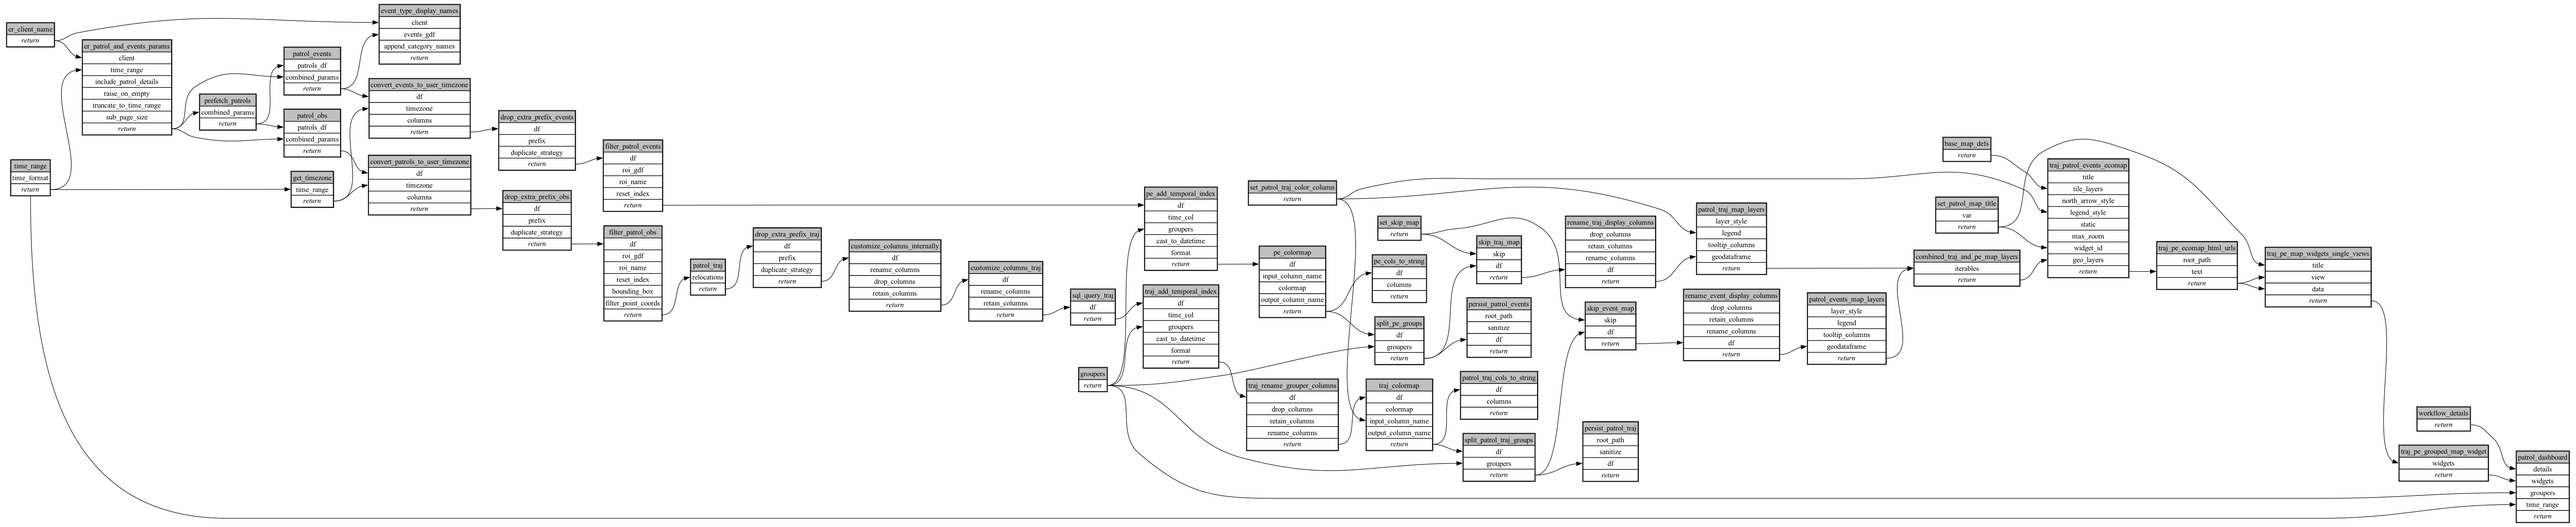
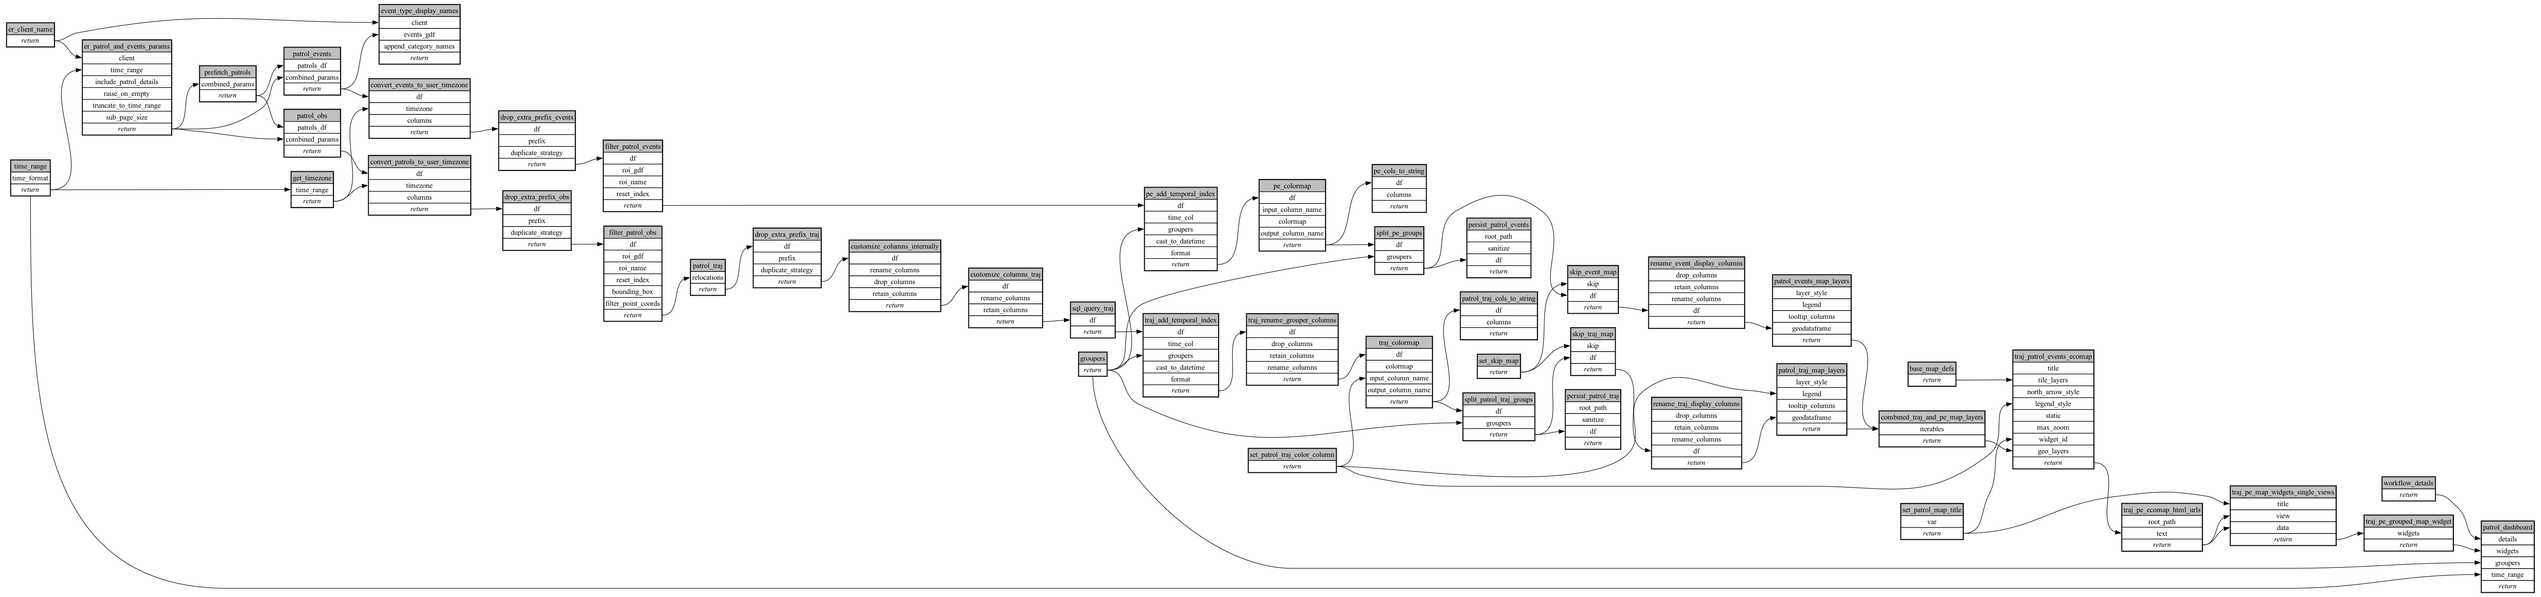
fix skip map

diff --git a/ecoscope-workflows-download-patrols-workflow/ecoscope_workflows_download_patrols_workflow/formdata.py b/ecoscope-workflows-download-patrols-workflow/ecoscope_workflows_download_patrols_workflow/formdata.py
@@ -5,7 +5,7 @@ from __future__ import annotations
 
 from datetime import datetime
 from enum import Enum
-from typing import Any, List, Literal, Optional, Union
+from typing import List, Literal, Optional, Union
 
 from pydantic import BaseModel, ConfigDict, Field, RootModel, confloat, constr
 
@@ -129,7 +129,11 @@ class SetSkipMap(BaseModel):
     model_config = ConfigDict(
         extra="forbid",
     )
-    var: bool = Field(..., title="")
+    var: bool = Field(
+        ...,
+        description="Skip generating maps for patrol trajectories and events. Recommended for large datasets to improve performance.",
+        title="",
+    )
 
 
 class Url(str, Enum):
@@ -298,17 +302,9 @@ class BaseMapDefs(BaseModel):
     )
 
 
-class SkipMapGeneration(BaseModel):
-    skip: Optional[Any] = Field(
-        None,
-        description="Skip generating maps for patrol trajectories and events. Recommended for large datasets to improve performance.",
-    )
-
-
 class GenerateMaps(BaseModel):
     set_skip_map: Optional[SetSkipMap] = Field(None, title="Skip Map Generation")
     base_map_defs: Optional[BaseMapDefs] = Field(None, title=" ")
-    skip_map_generation: Optional[SkipMapGeneration] = None
 
 
 class EarthRangerConnection(BaseModel):
@@ -341,6 +337,10 @@ class TrajectorySegmentFilter(BaseModel):
     max_speed_kmhr: Optional[confloat(gt=0.001)] = Field(
         500, title="Maximum Segment Speed (Kilometers per Hour)"
     )
+
+
+class SpatialGrouper(RootModel[str]):
+    root: str = Field(..., title="Spatial Regions")
 
 
 class TemporalGrouper(RootModel[str]):
@@ -405,10 +405,12 @@ class Groupers(BaseModel):
     model_config = ConfigDict(
         extra="forbid",
     )
-    groupers: Optional[List[Union[ValueGrouper, TemporalGrouper]]] = Field(
-        None,
-        description="            Specify how the data should be grouped to create the views for your dashboard.\n            This field is optional; if left blank, all the data will appear in a single view.\n            ",
-        title=" ",
+    groupers: Optional[List[Union[ValueGrouper, TemporalGrouper, SpatialGrouper]]] = (
+        Field(
+            None,
+            description="            Specify how the data should be grouped to create the views for your dashboard.\n            This field is optional; if left blank, all the data will appear in a single view.\n            ",
+            title=" ",
+        )
     )
 
 

diff --git a/ecoscope-workflows-download-patrols-workflow/ecoscope_workflows_download_patrols_workflow/dags/run_async_mock_io.py b/ecoscope-workflows-download-patrols-workflow/ecoscope_workflows_download_patrols_workflow/dags/run_async_mock_io.py
@@ -61,6 +61,9 @@ from ecoscope_workflows_core.tasks.results import gather_dashboard as gather_das
 from ecoscope_workflows_core.tasks.results import (
     merge_widget_views as merge_widget_views,
 )
+from ecoscope_workflows_core.tasks.skip import (
+    all_keyed_iterables_are_skips as all_keyed_iterables_are_skips,
+)
 from ecoscope_workflows_core.tasks.skip import never as never
 from ecoscope_workflows_core.tasks.transformation import (
     add_temporal_index as add_temporal_index,
@@ -149,8 +152,8 @@ def main(params: Params):
         "persist_patrol_traj": ["split_patrol_traj_groups"],
         "persist_patrol_events": ["split_pe_groups"],
         "set_skip_map": [],
-        "skip_traj_map": ["set_skip_map", "split_pe_groups"],
-        "skip_event_map": ["set_skip_map", "split_patrol_traj_groups"],
+        "skip_traj_map": ["set_skip_map", "split_patrol_traj_groups"],
+        "skip_event_map": ["set_skip_map", "split_pe_groups"],
         "set_patrol_map_title": [],
         "base_map_defs": [],
         "rename_traj_display_columns": ["skip_traj_map"],
@@ -943,7 +946,7 @@ def main(params: Params):
             method="mapvalues",
             kwargs={
                 "argnames": ["df"],
-                "argvalues": DependsOn("split_pe_groups"),
+                "argvalues": DependsOn("split_patrol_traj_groups"),
             },
         ),
         "skip_event_map": Node(
@@ -966,7 +969,7 @@ def main(params: Params):
             method="mapvalues",
             kwargs={
                 "argnames": ["df"],
-                "argvalues": DependsOn("split_patrol_traj_groups"),
+                "argvalues": DependsOn("split_pe_groups"),
             },
         ),
         "set_patrol_map_title": Node(
@@ -1139,7 +1142,7 @@ def main(params: Params):
             .with_tracing()
             .skipif(
                 conditions=[
-                    any_dependency_skipped,
+                    all_keyed_iterables_are_skips,
                 ],
                 unpack_depth=1,
             )

diff --git a/ecoscope-workflows-download-patrols-workflow/ecoscope_workflows_download_patrols_workflow/dags/run_async.py b/ecoscope-workflows-download-patrols-workflow/ecoscope_workflows_download_patrols_workflow/dags/run_async.py
@@ -25,6 +25,9 @@ from ecoscope_workflows_core.tasks.results import (
     merge_widget_views as merge_widget_views,
 )
 from ecoscope_workflows_core.tasks.skip import (
+    all_keyed_iterables_are_skips as all_keyed_iterables_are_skips,
+)
+from ecoscope_workflows_core.tasks.skip import (
     any_dependency_skipped as any_dependency_skipped,
 )
 from ecoscope_workflows_core.tasks.skip import any_is_empty_df as any_is_empty_df
@@ -129,8 +132,8 @@ def main(params: Params):
         "persist_patrol_traj": ["split_patrol_traj_groups"],
         "persist_patrol_events": ["split_pe_groups"],
         "set_skip_map": [],
-        "skip_traj_map": ["set_skip_map", "split_pe_groups"],
-        "skip_event_map": ["set_skip_map", "split_patrol_traj_groups"],
+        "skip_traj_map": ["set_skip_map", "split_patrol_traj_groups"],
+        "skip_event_map": ["set_skip_map", "split_pe_groups"],
         "set_patrol_map_title": [],
         "base_map_defs": [],
         "rename_traj_display_columns": ["skip_traj_map"],
@@ -923,7 +926,7 @@ def main(params: Params):
             method="mapvalues",
             kwargs={
                 "argnames": ["df"],
-                "argvalues": DependsOn("split_pe_groups"),
+                "argvalues": DependsOn("split_patrol_traj_groups"),
             },
         ),
         "skip_event_map": Node(
@@ -946,7 +949,7 @@ def main(params: Params):
             method="mapvalues",
             kwargs={
                 "argnames": ["df"],
-                "argvalues": DependsOn("split_patrol_traj_groups"),
+                "argvalues": DependsOn("split_pe_groups"),
             },
         ),
         "set_patrol_map_title": Node(
@@ -1119,7 +1122,7 @@ def main(params: Params):
             .with_tracing()
             .skipif(
                 conditions=[
-                    any_dependency_skipped,
+                    all_keyed_iterables_are_skips,
                 ],
                 unpack_depth=1,
             )

diff --git a/ecoscope-workflows-download-patrols-workflow/ecoscope_workflows_download_patrols_workflow/dispatch.py b/ecoscope-workflows-download-patrols-workflow/ecoscope_workflows_download_patrols_workflow/dispatch.py
@@ -1,18 +1,23 @@
 # AUTOGENERATED BY ECOSCOPE-WORKFLOWS; see fingerprint in README.md for details
 
 
+import os
+import sys
 import traceback
 
 from pydantic import BaseModel
 
-from .dags import (
-    run_async,
-    run_async_mock_io,
-    run_sequential,
-    run_sequential_mock_io,
-)
 from .params import Params
 from .response import ResponseModel
+
+
+def to_windows_safe_path(path: str):
+    """
+    Convert path to Windows extended-length format.
+    Prevents module import failures in deeply nested folder structures
+    """
+    abs_path = os.path.abspath(path)
+    return f"\\\\?\\{abs_path}"
 
 
 def dispatch(
@@ -20,14 +25,24 @@ def dispatch(
     mock_io: bool,
     params: Params,
 ) -> ResponseModel:
+    if sys.platform == "win32":
+        sys.path = [to_windows_safe_path(p) for p in sys.path]
     match execution_mode, mock_io:
         case ("async", True):
+            from .dags import run_async_mock_io
+
             dispatcher = run_async_mock_io
         case ("async", False):
+            from .dags import run_async
+
             dispatcher = run_async
         case ("sequential", True):
+            from .dags import run_sequential_mock_io
+
             dispatcher = run_sequential_mock_io
         case ("sequential", False):
+            from .dags import run_sequential
+
             dispatcher = run_sequential
         case _:
             raise ValueError(f"Invalid execution mode: {execution_mode}")

diff --git a/ecoscope-workflows-download-patrols-workflow/ecoscope_workflows_download_patrols_workflow/dags/run_sequential_mock_io.py b/ecoscope-workflows-download-patrols-workflow/ecoscope_workflows_download_patrols_workflow/dags/run_sequential_mock_io.py
@@ -60,6 +60,9 @@ from ecoscope_workflows_core.tasks.results import gather_dashboard as gather_das
 from ecoscope_workflows_core.tasks.results import (
     merge_widget_views as merge_widget_views,
 )
+from ecoscope_workflows_core.tasks.skip import (
+    all_keyed_iterables_are_skips as all_keyed_iterables_are_skips,
+)
 from ecoscope_workflows_core.tasks.skip import never as never
 from ecoscope_workflows_core.tasks.transformation import (
     add_temporal_index as add_temporal_index,
@@ -825,7 +828,7 @@ def main(params: Params):
             unpack_depth=1,
         )
         .partial(skip=set_skip_map, **(params_dict.get("skip_traj_map") or {}))
-        .mapvalues(argnames=["df"], argvalues=split_pe_groups)
+        .mapvalues(argnames=["df"], argvalues=split_patrol_traj_groups)
     )
 
     skip_event_map = (
@@ -841,7 +844,7 @@ def main(params: Params):
             unpack_depth=1,
         )
         .partial(skip=set_skip_map, **(params_dict.get("skip_event_map") or {}))
-        .mapvalues(argnames=["df"], argvalues=split_patrol_traj_groups)
+        .mapvalues(argnames=["df"], argvalues=split_pe_groups)
     )
 
     set_patrol_map_title = (
@@ -995,7 +998,7 @@ def main(params: Params):
         .with_tracing()
         .skipif(
             conditions=[
-                any_dependency_skipped,
+                all_keyed_iterables_are_skips,
             ],
             unpack_depth=1,
         )

diff --git a/ecoscope-workflows-download-patrols-workflow/ecoscope_workflows_download_patrols_workflow/dags/run_sequential.py b/ecoscope-workflows-download-patrols-workflow/ecoscope_workflows_download_patrols_workflow/dags/run_sequential.py
@@ -24,6 +24,9 @@ from ecoscope_workflows_core.tasks.results import (
     merge_widget_views as merge_widget_views,
 )
 from ecoscope_workflows_core.tasks.skip import (
+    all_keyed_iterables_are_skips as all_keyed_iterables_are_skips,
+)
+from ecoscope_workflows_core.tasks.skip import (
     any_dependency_skipped as any_dependency_skipped,
 )
 from ecoscope_workflows_core.tasks.skip import any_is_empty_df as any_is_empty_df
@@ -805,7 +808,7 @@ def main(params: Params):
             unpack_depth=1,
         )
         .partial(skip=set_skip_map, **(params_dict.get("skip_traj_map") or {}))
-        .mapvalues(argnames=["df"], argvalues=split_pe_groups)
+        .mapvalues(argnames=["df"], argvalues=split_patrol_traj_groups)
     )
 
     skip_event_map = (
@@ -821,7 +824,7 @@ def main(params: Params):
             unpack_depth=1,
         )
         .partial(skip=set_skip_map, **(params_dict.get("skip_event_map") or {}))
-        .mapvalues(argnames=["df"], argvalues=split_patrol_traj_groups)
+        .mapvalues(argnames=["df"], argvalues=split_pe_groups)
     )
 
     set_patrol_map_title = (
@@ -975,7 +978,7 @@ def main(params: Params):
         .with_tracing()
         .skipif(
             conditions=[
-                any_dependency_skipped,
+                all_keyed_iterables_are_skips,
             ],
             unpack_depth=1,
         )

diff --git a/ecoscope-workflows-download-patrols-workflow/ecoscope_workflows_download_patrols_workflow/dags/jupytext.py b/ecoscope-workflows-download-patrols-workflow/ecoscope_workflows_download_patrols_workflow/dags/jupytext.py
@@ -34,6 +34,9 @@ from ecoscope_workflows_core.tasks.results import (
     merge_widget_views as merge_widget_views,
 )
 from ecoscope_workflows_core.tasks.skip import (
+    all_keyed_iterables_are_skips as all_keyed_iterables_are_skips,
+)
+from ecoscope_workflows_core.tasks.skip import (
     any_dependency_skipped as any_dependency_skipped,
 )
 from ecoscope_workflows_core.tasks.skip import any_is_empty_df as any_is_empty_df
@@ -1255,7 +1258,7 @@ skip_traj_map = (
         unpack_depth=1,
     )
     .partial(skip=set_skip_map, **skip_traj_map_params)
-    .mapvalues(argnames=["df"], argvalues=split_pe_groups)
+    .mapvalues(argnames=["df"], argvalues=split_patrol_traj_groups)
 )
 
 
@@ -1283,7 +1286,7 @@ skip_event_map = (
         unpack_depth=1,
     )
     .partial(skip=set_skip_map, **skip_event_map_params)
-    .mapvalues(argnames=["df"], argvalues=split_patrol_traj_groups)
+    .mapvalues(argnames=["df"], argvalues=split_pe_groups)
 )
 
 
@@ -1524,7 +1527,7 @@ combined_traj_and_pe_map_layers = (
     .with_tracing()
     .skipif(
         conditions=[
-            any_dependency_skipped,
+            all_keyed_iterables_are_skips,
         ],
         unpack_depth=1,
     )

diff --git a/ecoscope-workflows-download-patrols-workflow/ecoscope_workflows_download_patrols_workflow/params.py b/ecoscope-workflows-download-patrols-workflow/ecoscope_workflows_download_patrols_workflow/params.py
@@ -320,6 +320,10 @@ class TrajectorySegmentFilter(BaseModel):
     )
 
 
+class SpatialGrouper(RootModel[str]):
+    root: str = Field(..., title="Spatial Regions")
+
+
 class TemporalGrouper(RootModel[str]):
     root: str = Field(..., title="Time")
 
@@ -382,10 +386,12 @@ class Groupers(BaseModel):
     model_config = ConfigDict(
         extra="forbid",
     )
-    groupers: Optional[List[Union[ValueGrouper, TemporalGrouper]]] = Field(
-        None,
-        description="            Specify how the data should be grouped to create the views for your dashboard.\n            This field is optional; if left blank, all the data will appear in a single view.\n            ",
-        title=" ",
+    groupers: Optional[List[Union[ValueGrouper, TemporalGrouper, SpatialGrouper]]] = (
+        Field(
+            None,
+            description="            Specify how the data should be grouped to create the views for your dashboard.\n            This field is optional; if left blank, all the data will appear in a single view.\n            ",
+            title=" ",
+        )
     )
 
 

diff --git a/ecoscope-workflows-download-patrols-workflow/README.md b/ecoscope-workflows-download-patrols-workflow/README.md
@@ -5,8 +5,8 @@
 
 ```yaml
 # fingerprint:
-artifacts_sha256_basic: 94a4fc52b0299b5045fb26a0778faf3540c23dfaa9836530a7e795ca7c4e1518
-artifacts_sha256_strict: b4a34d30d560f4b3cc3e55d19ca5df0bade039927eaa48b1e5a2406587829c13
+artifacts_sha256_basic: 17964f31fdd349e96cb0bb702cc8f841a35354e49e896e5efe0f61efd90054a9
+artifacts_sha256_strict: 34a6df7e41b31f186192deef85ad4bb17f37197d9df6f0f56b1307b89ea1e1b9
 installed_requirements:
 - channel: https://repo.prefix.dev/ecoscope-workflows/
   name: ecoscope-workflows-core
@@ -17,8 +17,8 @@ installed_requirements:
 - channel: https://repo.prefix.dev/ecoscope-workflows-custom/
   name: ecoscope-workflows-ext-custom
   version: {version: ==0.0.19}
-params_sha256: 0d3f955522794938c2f341d0ff904be469b219e2ff43b4a6a22f5c559ec83090
-spec_sha256: fa1598e8f25b2d8feccfd7bfd73efe9d5827e77884343282f6e4a756cec2bbbb
+params_sha256: a48e249e19a77ad733a33bdbcc450b06c359afebeb5a1f013339d630a4d85de5
+spec_sha256: 6cd5b6bf2c22324bcba46034e198499f6bb31d33f1c97ecdb0bc15f3312c6e4c
 
 ```
 
